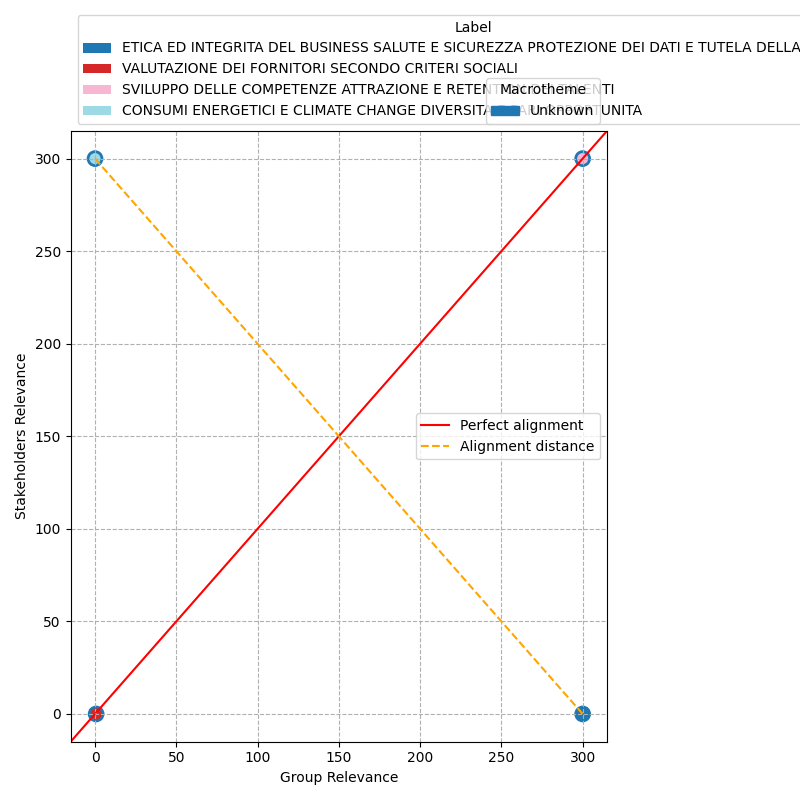
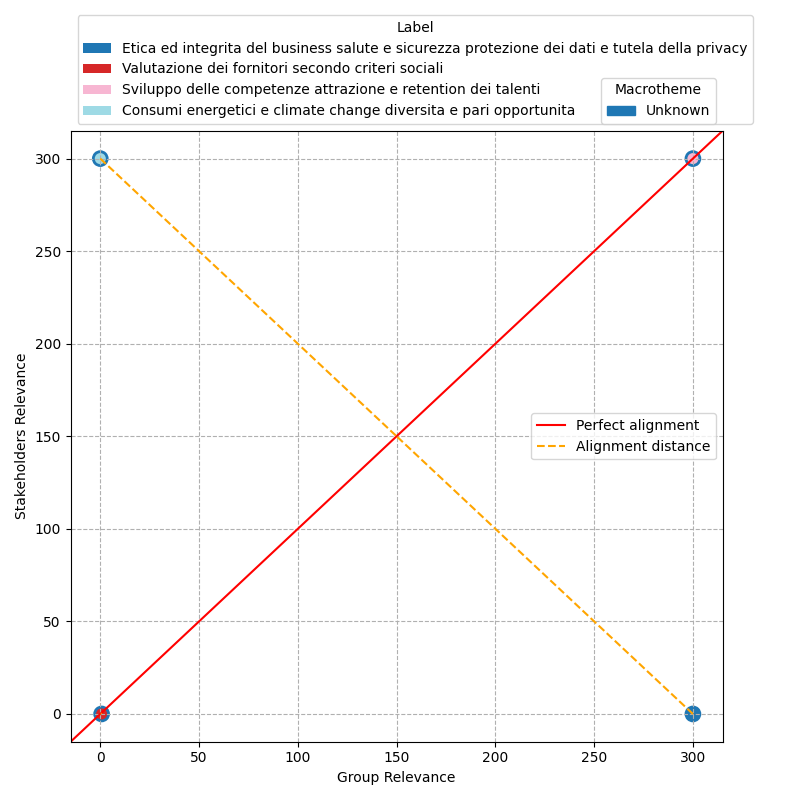
Update
fixed uppercase

diff --git a/plot_elements.py b/plot_elements.py
@@ -156,7 +156,8 @@ class LabelBox(Box):
     # bounding box is contained in the label box
     def add_text_in_label(self, tb=TextBox):
         if tb.in_box(self):
-            self.__label += tb.text + ' '
+            self.__label += tb.text.lower() + ' '
+            self.__label = self.__label.capitalize()
         else:
             pass
 
